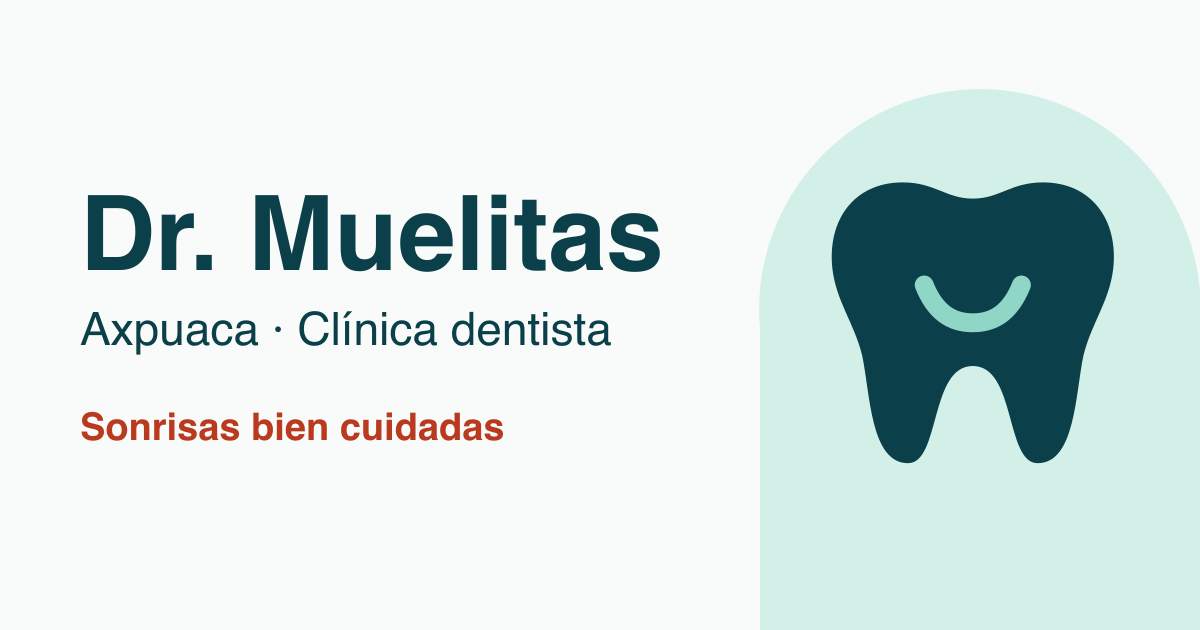
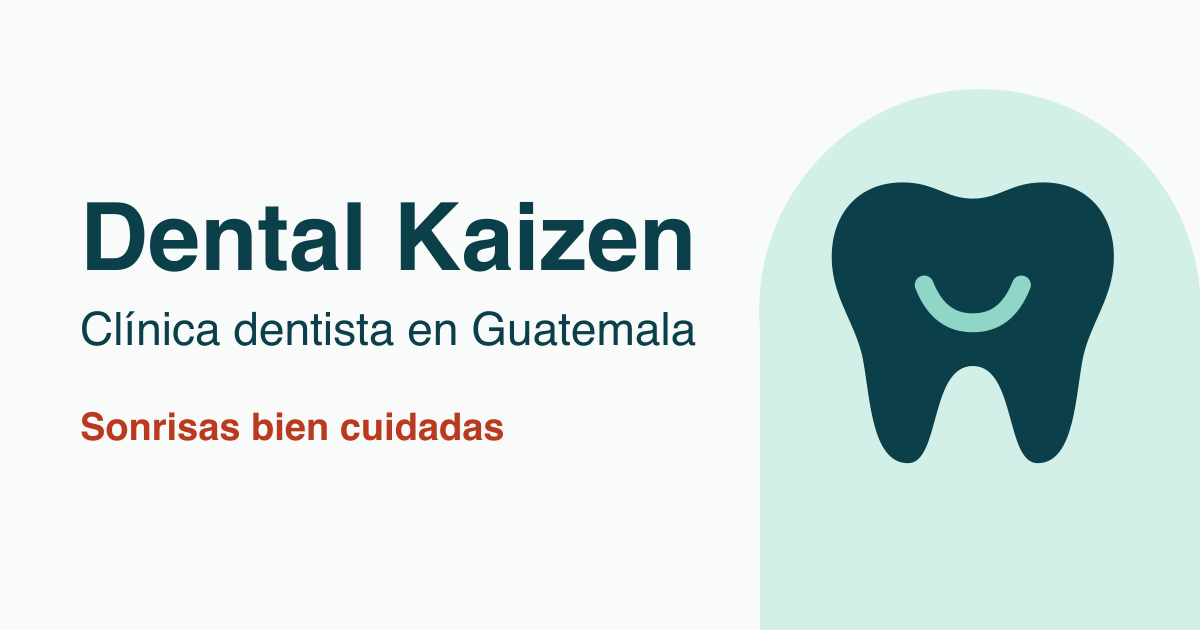
feat(brand): rename the clinic to dental kaizen

Changed region(s): [[0.0617, 0.3016, 0.5858, 0.4524], [0.0617, 0.4825, 0.5858, 0.573]]

diff --git a/src/data/content.ts b/src/data/content.ts
@@ -2,17 +2,17 @@
 // dirección, horario, colegiado, fotos reales y redes sociales. Ver README.
 
 export const clinic = {
-  name: 'Clínica Dentista Dr. Muelitas Axpuaca',
-  brand: 'Dr. Muelitas',
-  brandSub: 'Axpuaca · Clínica dentista',
+  name: 'Dental Kaizen',
+  brand: 'Dental Kaizen',
+  brandSub: 'Clínica dentista',
   tagline: 'Sonrisas bien cuidadas',
-  title: 'Clínica dentista en Guatemala · Dr. Muelitas Axpuaca',
+  title: 'Clínica dentista en Guatemala · Dental Kaizen',
   description:
-    'Clínica dentista del Dr. Muelitas Axpuaca en Guatemala: limpieza, resinas, endodoncia, exodoncia, coronas e implantes. Solicita tu cita por WhatsApp.',
+    'Dental Kaizen, clínica dentista en Guatemala con el Dr. Muelitas Axpuaca: limpieza, resinas, endodoncia, exodoncia y coronas. Pide tu cita por WhatsApp.',
   phone: '+502 3724 5564',
   phoneE164: '+50237245564',
   email: 'rominchote@gmail.com',
-  message: 'Hola, quisiera solicitar una cita en la Clínica Dentista del Dr. Muelitas Axpuaca.',
+  message: 'Hola, quisiera solicitar una cita en Dental Kaizen.',
 };
 
 export const nav = [

diff --git a/README.md b/README.md
@@ -1,6 +1,6 @@
 # muelitas-landing
 
-Landing page de la Clínica Dentista Dr. Muelitas Axpuaca: https://cljuarez97.github.io/muelitas-landing/
+Landing page de Dental Kaizen, clínica dentista del Dr. Muelitas Axpuaca: https://cljuarez97.github.io/muelitas-landing/
 
 Astro 7 estático, CSS propio y tipografías autohospedadas. Misma estructura que `alaria-landing`, con identidad propia.
 
